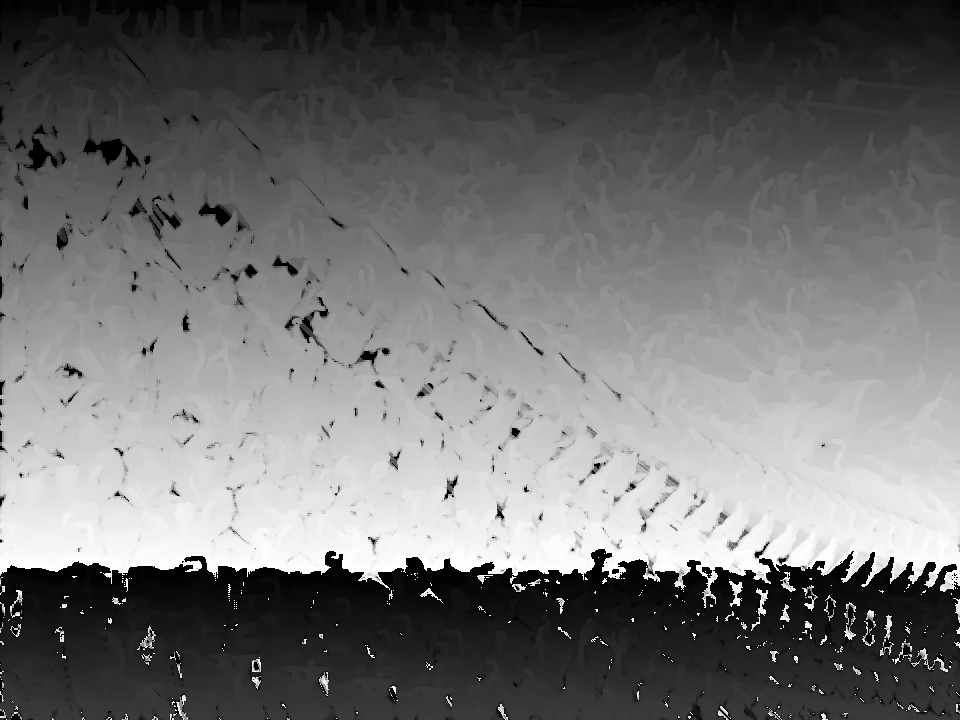
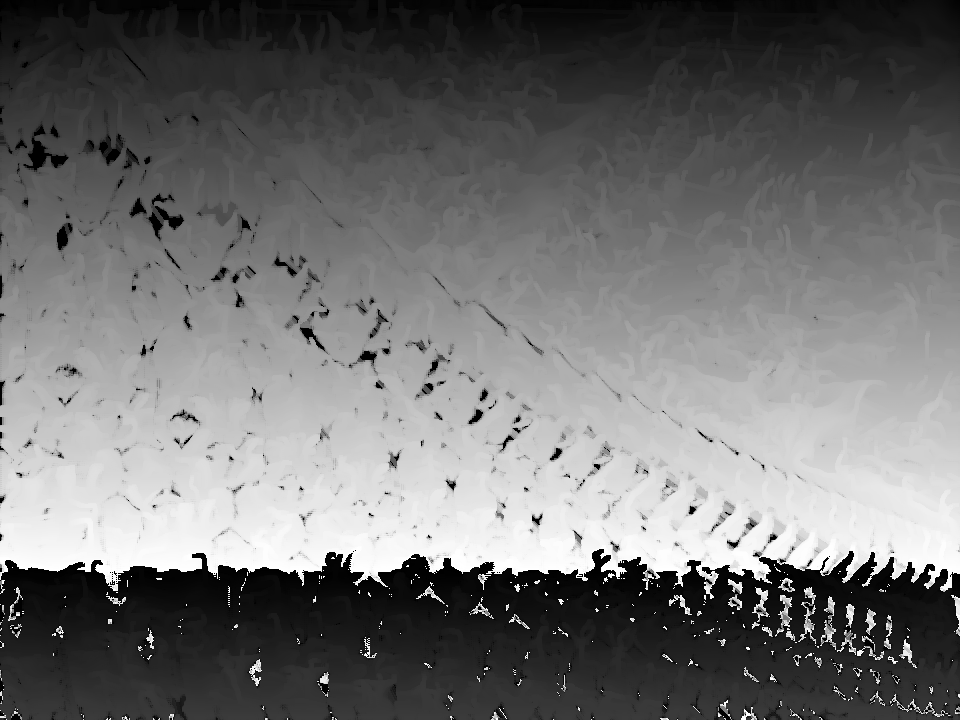
Implemented the luminosity function

diff --git a/src/image.cpp b/src/image.cpp
@@ -58,6 +58,37 @@ cv::Mat *GrayImage::to_cv_mat() {
     return cv_image;
 }
 
+std::tuple<Eigen::Vector2f, float> GrayImage::compute_gradient(int x, int y, HorizontalSobelKernel *sobel_x, VerticalSobelKernel *sobel_y) {
+    Eigen::Vector2f grad = Eigen::Vector2f::Zero();
+    Eigen::Vector3f pixel;
+    float grad_mag, intensity;
+    int image_x, image_y;
+
+    for (int j = 0; j < sobel_x->get_len(); j++) {
+        for (int i = 0; i < sobel_x->get_len(); i++) {
+            // Image x and y coordinates of the current pixel
+            image_x = x + i - sobel_x->get_centre_x();
+            image_y = y + j - sobel_x->get_centre_y();
+
+            // Checks if the coordinates are valid
+            if (image_x < 0 || image_x >= this->width || image_y < 0 || image_y >= this->height) {
+                continue;
+            }
+
+            intensity = get_pixel(image_x, image_y);
+            
+            // Compute gradient
+            grad[0] += intensity * sobel_x->get_value(i, j);
+            grad[1] += intensity * sobel_y->get_value(i, j);
+        }
+    }
+    grad.normalize();
+    // Compute the magnitude of the gradient
+    grad_mag = grad.norm();
+
+    return std::tuple<Eigen::Vector2f, float>(grad, grad_mag);
+}
+
 RGBImage::RGBImage(int width, int height, Eigen::Vector3f colour) {
     this->width = width;
     this->height = height;
@@ -151,39 +182,20 @@ Eigen::Vector3f RGBImage::convolve(int x, int y, const GaussianKernel *kernel) {
     return Eigen::Vector3f(blurred_r, blurred_g, blurred_b);
 }
 
-std::tuple<Eigen::Vector2f, float> RGBImage::compute_gradient(int x, int y, HorizontalSobelKernel *sobel_x, VerticalSobelKernel *sobel_y) {
-    Eigen::Vector2f grad = Eigen::Vector2f::Zero();
+GrayImage *RGBImage::luminosity() {
+    GrayMatrix *luminosity = new GrayMatrix(this->height, this->width);
+    
     Eigen::Vector3f pixel;
-    float grad_mag, intensity;
-    int image_x, image_y;
+    for (int y = 0; y < this->height; y++) {
+        for (int x = 0; x < this->width; x++) {
+            pixel = get_pixel(x, y);
 
-    for (int j = 0; j < sobel_x->get_len(); j++) {
-        for (int i = 0; i < sobel_x->get_len(); i++) {
-            // Image x and y coordinates of the current pixel
-            image_x = x + i - sobel_x->get_centre_x();
-            image_y = y + j - sobel_x->get_centre_y();
-
-            // Checks if the coordinates are valid
-            if (image_x < 0 || image_x >= this->width || image_y < 0 || image_y >= this->height) {
-                continue;
-            }
-
-            pixel = get_pixel(image_x, image_y);
-            
             // Compute the intensity of the current pixel
             // The constants reflect how sensitive the human-eye is to each colour channel
-            intensity = 0.2989 * pixel.x() + 0.5870 * pixel.y() + 0.1140 * pixel.z();
-
-            // Compute gradient
-            grad[0] += intensity * sobel_x->get_value(i, j);
-            grad[1] += intensity * sobel_y->get_value(i, j);
+            ImageUtil::set_pixel(luminosity, x, y, 0.2989 * pixel.x() + 0.5870 * pixel.y() * 0.1140 * pixel.z());
         }
     }
-    grad.normalize();
-    // Compute the magnitude of the gradient
-    grad_mag = grad.norm();
-
-    return std::tuple<Eigen::Vector2f, float>(grad, grad_mag);
+    return new GrayImage(this->width, this->height, luminosity);
 }
 
 Eigen::Vector3f RGBImage::average_colour() {

diff --git a/src/paint.cpp b/src/paint.cpp
@@ -73,12 +73,15 @@ std::tuple<RGBImage*, GrayImage*> Paint::paint() {
 
 void Paint::paint_layer(RGBImage *ref_image, RGBImage *canvas, GrayImage *height_map, int radius) {
     std::vector<Stroke> strokes;
-    GrayImage *differences;
+    GrayImage *differences, *luminosity;
     int grid, max_x, max_y;
     float area_error, max_diff, current_diff;
 
     // Compute the difference between the reference image and the canvas
     differences = ref_image->difference(canvas);
+
+    // Compute the luminosity of the reference image. Used to compute image gradients
+    luminosity = ref_image->luminosity();
 
     // Brush mask
     AntiAliasedCircle brush = AntiAliasedCircle(radius, ProgramParameters::aa * radius);
@@ -115,11 +118,15 @@ void Paint::paint_layer(RGBImage *ref_image, RGBImage *canvas, GrayImage *height
             }
             // It is cheaper to check this than dividing area_error by grid * grid
             if (area_error > ProgramParameters::threshold * grid * grid) {
-                Stroke stroke = Stroke(max_x, max_y, radius, ref_image, canvas);
+                Stroke stroke = Stroke(max_x, max_y, radius, ref_image, canvas, luminosity);
                 strokes.push_back(stroke);
             }
         }
     }
+    // Free memory
+    delete differences;
+    delete luminosity;
+
     // Shuffle the strokes
     // TODO: Figure out why we can't shuffle the strokes??
     //std::random_shuffle(strokes.begin(), strokes.end());
@@ -127,10 +134,7 @@ void Paint::paint_layer(RGBImage *ref_image, RGBImage *canvas, GrayImage *height
     // Render the strokes to the canvas
     for (Stroke stroke : strokes) {
         this->render_stroke(canvas, height_map, &stroke, &brush);
-    }
-
-    // Free memory
-    delete differences;
+    }    
 }
 
 // TODO: Move this into the GrayImage class?

diff --git a/include/image.hpp b/include/image.hpp
@@ -88,6 +88,18 @@ class GrayImage {
         }
 
         cv::Mat *to_cv_mat();
+
+        /**
+         * Computes the gradient of the image at the given point
+         * 
+         * @param x: x-coordinate 
+         * @param y: y-coordinate
+         * @param sobel_x: Horizontal sobel kernel
+         * @param sobel_y: Vertical sobel kernel
+         * 
+         * @return: Tuple containing the gradient (gx, gy) and the magnitude of the gradient
+        */
+        std::tuple<Eigen::Vector2f, float> compute_gradient(int x, int y, HorizontalSobelKernel *sobel_x, VerticalSobelKernel *sobel_y);
 };
 
 class RGBImage {
@@ -171,19 +183,7 @@ class RGBImage {
          * 
          * @return: Blurred image
         */
-        RGBImage* gaussian_blur(const GaussianKernel *kernel);
-
-        /**
-         * Computes the gradient of the image at the given point
-         * 
-         * @param x: x-coordinate 
-         * @param y: y-coordinate
-         * @param sobel_x: Horizontal sobel kernel
-         * @param sobel_y: Vertical sobel kernel
-         * 
-         * @return: Tuple containing the gradient (gx, gy) and the magnitude of the gradient
-        */
-        std::tuple<Eigen::Vector2f, float> compute_gradient(int x, int y, HorizontalSobelKernel *sobel_x, VerticalSobelKernel *sobel_y);
+        RGBImage *gaussian_blur(const GaussianKernel *kernel);
 
         /**
          * @return: The average pixel colour of the image
@@ -196,5 +196,7 @@ class RGBImage {
          * @return: Matrix containing the difference betweene each pixel
         */
         GrayImage* difference(RGBImage *compare_image);
+
+        GrayImage *luminosity();
 };
 

diff --git a/src/stroke.cpp b/src/stroke.cpp
@@ -2,7 +2,7 @@
 #include "parameters.hpp"
 #include "debug.hpp"
 
-Stroke::Stroke(int x0, int y0, float radius, RGBImage *ref_image, RGBImage *canvas) {
+Stroke::Stroke(int x0, int y0, float radius, RGBImage *ref_image, RGBImage *canvas, GrayImage *luminosity) {
     Eigen::Vector2f d, g, last;
     Eigen::Vector3f ref_pixel, canvas_pixel, new_pixel;
     float grad_mag;
@@ -31,7 +31,7 @@ Stroke::Stroke(int x0, int y0, float radius, RGBImage *ref_image, RGBImage *canv
         canvas_pixel = canvas->get_pixel(x, y);
         
         // Get the unit vector of gradient (gx, gy) and gradient magnitutde
-        std::tie<Eigen::Vector2f, float>(g, grad_mag) = ref_image->compute_gradient(x, y, &sobel_x, &sobel_y);
+        std::tie<Eigen::Vector2f, float>(g, grad_mag) = luminosity->compute_gradient(x, y, &sobel_x, &sobel_y);
         
         // Gradient is too small
         if (length * grad_mag < 1) {
@@ -73,7 +73,7 @@ Stroke::Stroke(int x0, int y0, float radius, RGBImage *ref_image, RGBImage *canv
 
         // Add the new control point
         this->control_points.push_back(Eigen::Vector2f(x, y));
-    }   
+    }
 }
 
 bool Stroke::limit_is_done() {

diff --git a/include/stroke.hpp b/include/stroke.hpp
@@ -8,6 +8,7 @@
 using namespace Eigen;
 
 class RGBImage;
+class GrayImage;
 
 class Stroke {
     private:
@@ -64,6 +65,7 @@ class Stroke {
          * @param radius: radius of the stroke
          * @param ref_image: reference image 
          * @param canvas: canvas image - where the stroke will be drawn
+         * @param luminosity: luminosity of the reference image. Used to compute image gradients
         */
-        Stroke(int x, int y, float radius, RGBImage *ref_image, RGBImage *canvas);
+        Stroke(int x, int y, float radius, RGBImage *ref_image, RGBImage *canvas, GrayImage *luminosity);
 };
